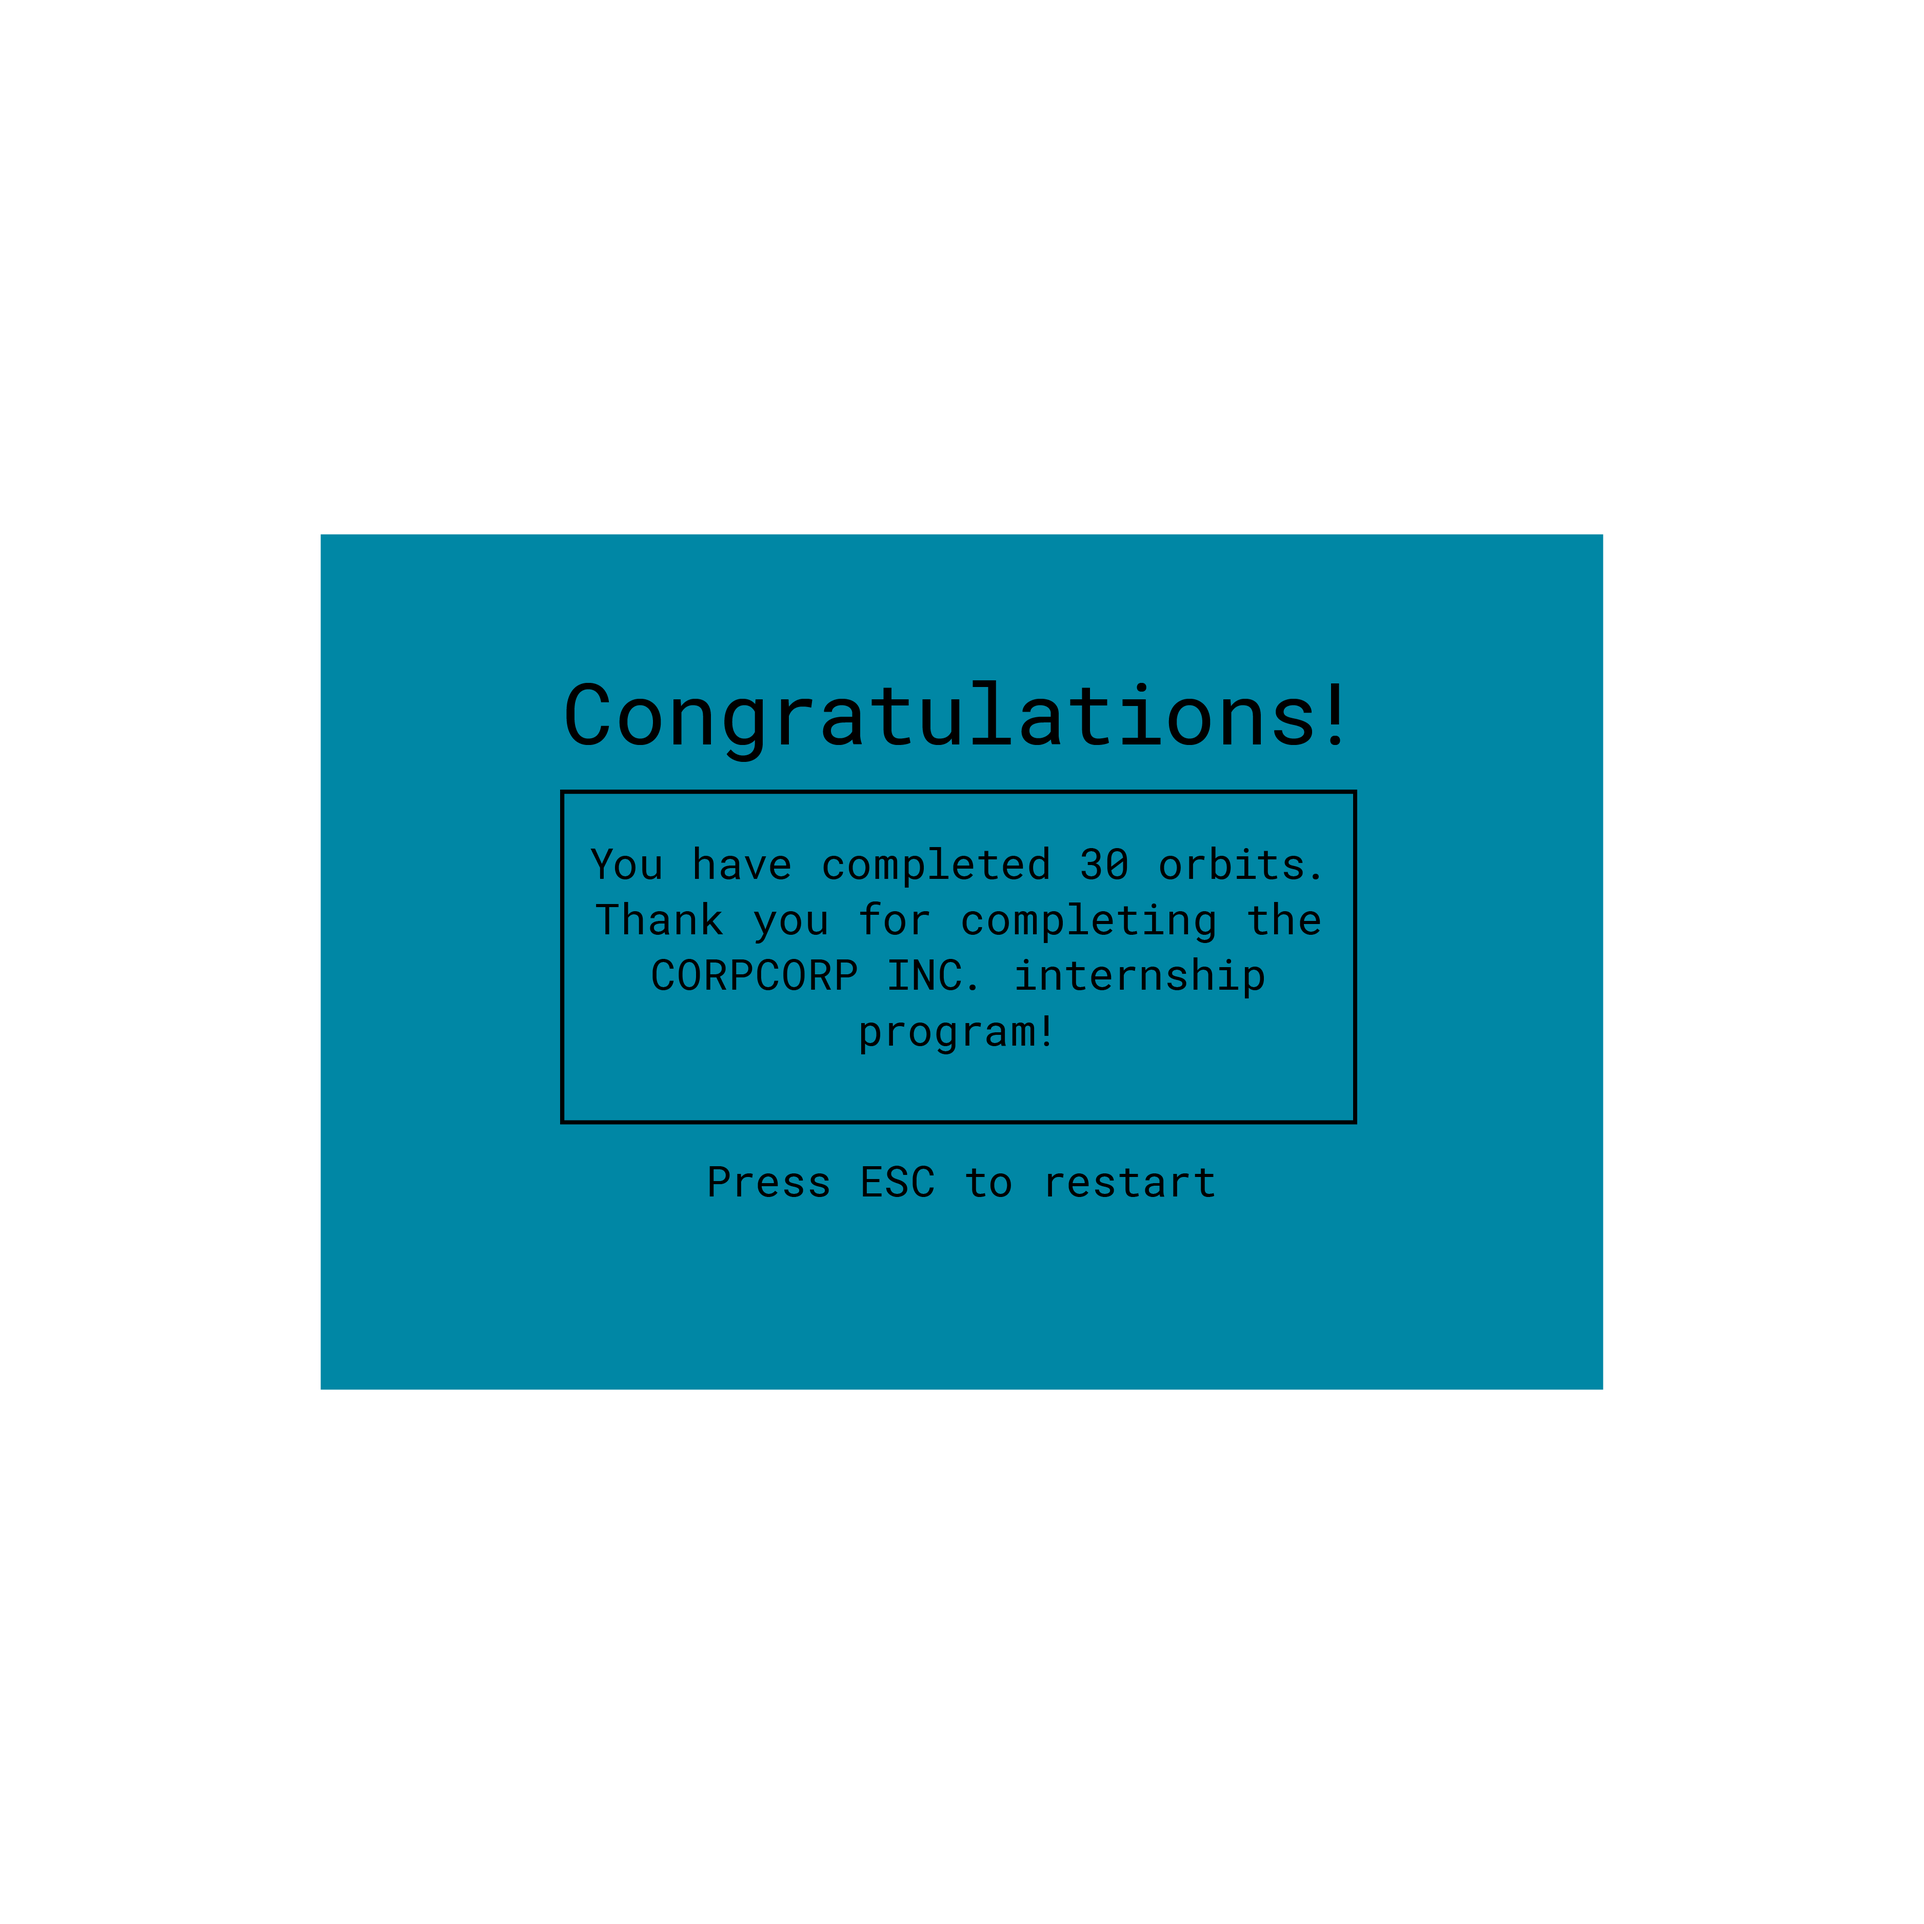
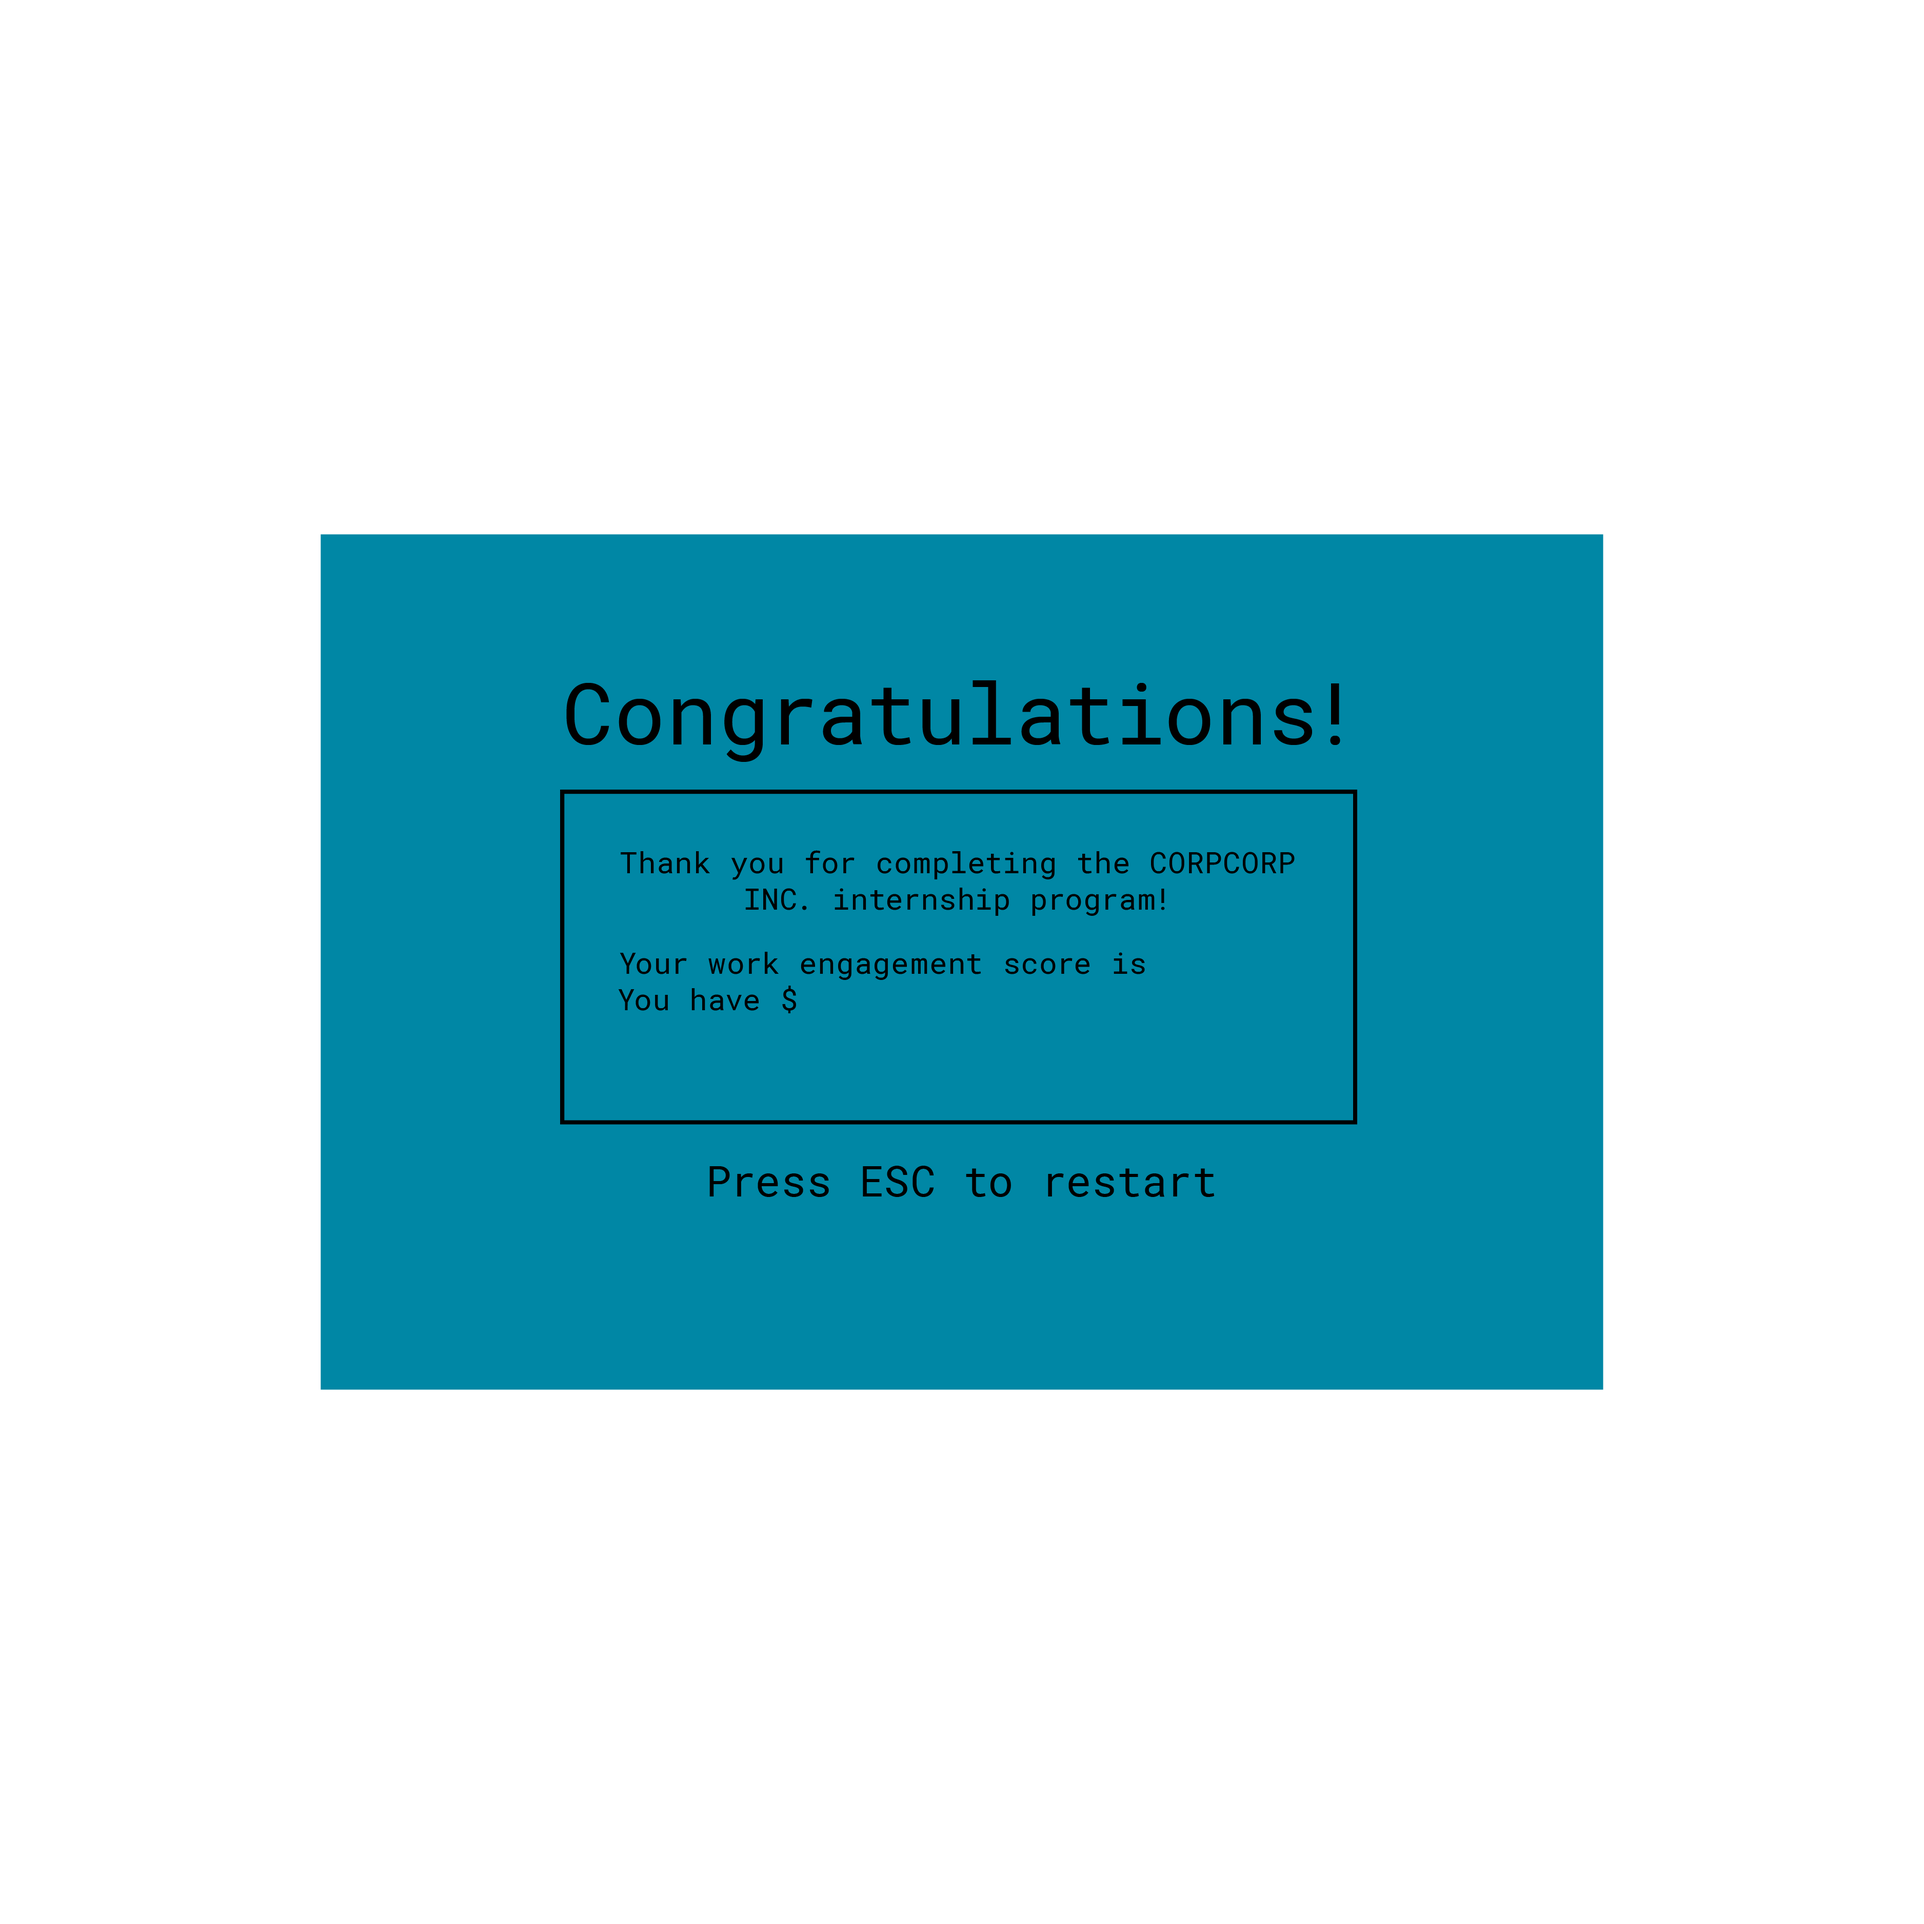
included engagement and remaining credit

Changed region(s): [[0.3119, 0.4368, 0.6862, 0.5616]]

diff --git a/Assets/Scripts/PopUps.cs b/Assets/Scripts/PopUps.cs
@@ -18,6 +18,8 @@ public class PopUps : MonoBehaviour
 	public GameObject m_washroom;
 	public GameObject m_personalEmails;
     public GameObject m_winning;
+    public Text m_engagement;
+    public Text m_remainingCredit;
     public GameObject m_slacker;
     public GameObject m_burnout;
 
@@ -116,6 +118,8 @@ public class PopUps : MonoBehaviour
         m_winning.SetActive(true);
         m_currentPopUp = m_winning;
         m_gameIsDone = true;
+        m_engagement.text = m_gameManager._evaluation.ToString();
+        m_remainingCredit.text = m_gameManager._credit.ToString();
         //deactivate player/controls
         PlayerControls(false);
     }
